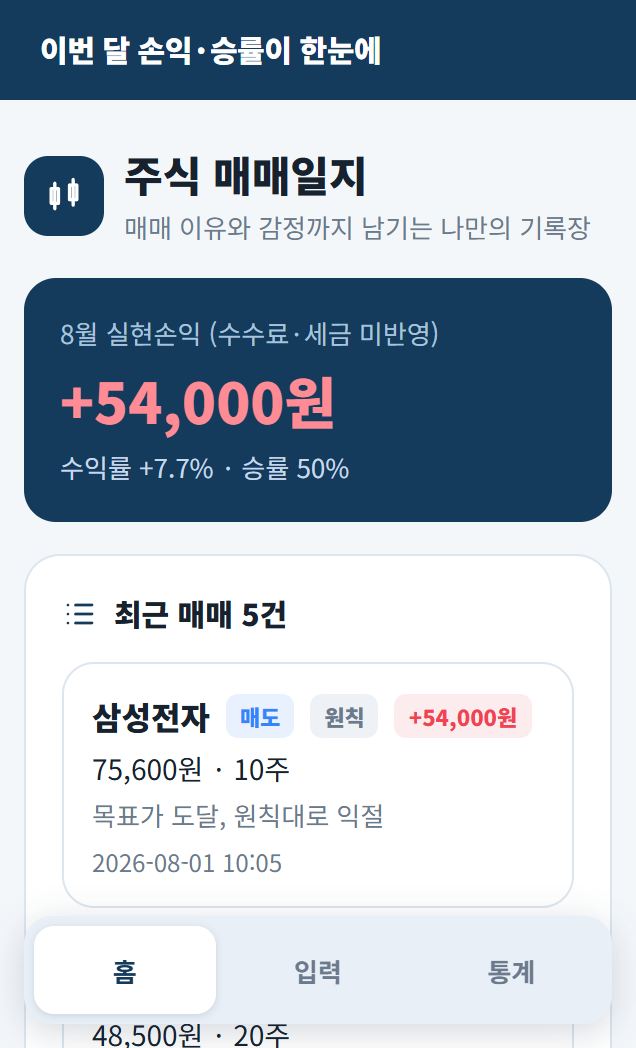
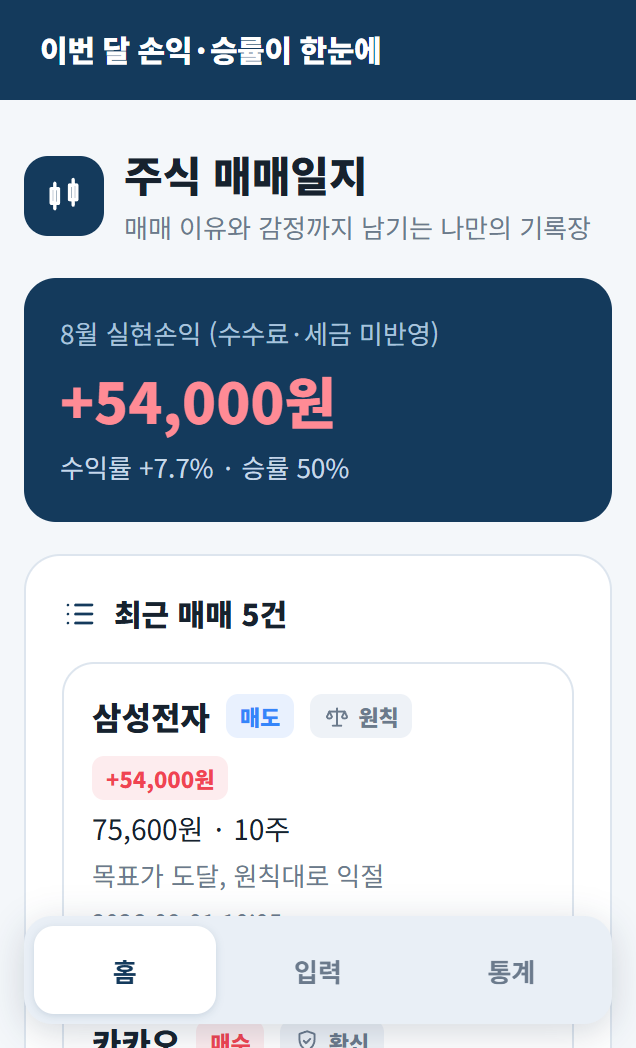
감정 태그 칩에 전용 SVG 라인 아이콘 추가
- 확신=방패체크, 추격=속도선 화살표, 공포=느낌표 삼각형, 원칙=저울, 뇌동=물결
- 칩 선택 시 흰색(currentColor), 홈/목록 감정 배지에도 동일 아이콘 재사용
- 스토어 shot2를 감정 태그 영역으로 갱신

Changed region(s): [[0.1494, 0.7023, 0.5975, 0.8855], [0.1494, 0.9771, 0.5975, 1.0], [0.5079, 0.6718, 0.8066, 0.7023]]

diff --git a/src/components/icons.tsx b/src/components/icons.tsx
@@ -63,6 +63,69 @@ export function IconCamera({ size }: { size?: number }) {
   );
 }
 
+/** 감정 태그: 확신 — 방패 + 체크 */
+export function IconShield({ size }: { size?: number }) {
+  return (
+    <Icon size={size}>
+      <path d="M12 3l7 2.5v5c0 4.6-3 8.4-7 10.5-4-2.1-7-5.9-7-10.5v-5z" />
+      <path d="M9 11.8l2.1 2.2 3.9-4" />
+    </Icon>
+  );
+}
+
+/** 감정 태그: 추격 — 속도선 달린 화살표 */
+export function IconChase({ size }: { size?: number }) {
+  return (
+    <Icon size={size}>
+      <path d="M8 12h12M15 7l5 5-5 5" />
+      <path d="M3 8h4M4 16h4" />
+    </Icon>
+  );
+}
+
+/** 감정 태그: 공포 — 느낌표 삼각형 */
+export function IconFear({ size }: { size?: number }) {
+  return (
+    <Icon size={size}>
+      <path d="M12 4L21 19.5H3z" />
+      <path d="M12 10v4.2M12 17h.01" />
+    </Icon>
+  );
+}
+
+/** 감정 태그: 원칙 — 저울 */
+export function IconScale({ size }: { size?: number }) {
+  return (
+    <Icon size={size}>
+      <path d="M12 4v16M8 20h8" />
+      <path d="M5 7h14" />
+      <path d="M5 7l-2.4 5a2.7 2.7 0 0 0 4.8 0z" />
+      <path d="M19 7l-2.4 5a2.7 2.7 0 0 0 4.8 0z" />
+    </Icon>
+  );
+}
+
+/** 감정 태그: 뇌동 — 회오리 물결 */
+export function IconSwirl({ size }: { size?: number }) {
+  return (
+    <Icon size={size}>
+      <path d="M3 7.5c2.5-2.4 5-2.4 7.5 0s5 2.4 7.5 0" />
+      <path d="M3 12.5c2.5-2.4 5-2.4 7.5 0s5 2.4 7.5 0" />
+      <path d="M6 17.5c2.2-2.1 4.4-2.1 6.6 0s4.4 2.1 6.6 0" />
+    </Icon>
+  );
+}
+
+/** 감정 태그명 → 아이콘 (칩·배지 공용) */
+export function EmotionIcon({ emotion, size = 16 }: { emotion: string; size?: number }) {
+  if (emotion === '확신') return <IconShield size={size} />;
+  if (emotion === '추격') return <IconChase size={size} />;
+  if (emotion === '공포') return <IconFear size={size} />;
+  if (emotion === '원칙') return <IconScale size={size} />;
+  if (emotion === '뇌동') return <IconSwirl size={size} />;
+  return null;
+}
+
 export function IconTrash({ size }: { size?: number }) {
   return (
     <Icon size={size}>

diff --git a/src/App.tsx b/src/App.tsx
@@ -36,7 +36,7 @@ import { makeThumbnail, recognizeImage } from './ocr/ocr';
 import { showRewardedAd } from './ads/rewarded';
 import { BannerAd } from './ads/BannerAd';
 import { AD_GROUP_ID, REWARDED_AD_ID } from './ads/config';
-import { IconCamera, IconChart, IconHome, IconInfo, IconList, IconPen, IconTrash } from './components/icons';
+import { EmotionIcon, IconCamera, IconChart, IconHome, IconInfo, IconList, IconPen, IconTrash } from './components/icons';
 
 type Tab = 'home' | 'write' | 'stats';
 type PickTarget = 'symbol' | 'price' | 'qty';
@@ -252,7 +252,7 @@ export function App() {
           <div className="trade-top">
             <span className="trade-symbol">{t.symbol}</span>
             <span className={`badge ${t.side}`}>{t.side === 'buy' ? '매수' : '매도'}</span>
-            {t.emotion !== '' && <span className="badge emo">{t.emotion}</span>}
+            {t.emotion !== '' && <span className="badge emo"><EmotionIcon emotion={t.emotion} size={13} />{t.emotion}</span>}
             {t.side === 'sell' && pnl !== undefined && (
               <span className={`badge ${pnl > 0 ? 'pnl-up' : pnl < 0 ? 'pnl-down' : 'emo'}`}>{formatSigned(pnl)}</span>
             )}
@@ -398,7 +398,7 @@ export function App() {
                   className={`chip ${emotion === e ? 'on' : ''}`}
                   onClick={() => setEmotion(emotion === e ? '' : e)}
                 >
-                  {e}
+                  <EmotionIcon emotion={e} size={17} />{e}
                 </button>
               ))}
             </div>

diff --git a/src/styles.css b/src/styles.css
@@ -79,7 +79,9 @@ textarea.field-input { resize: vertical; min-height: 64px; }
   min-height: 40px; padding: 8px 14px; border-radius: 20px;
   border: 1.5px solid var(--line); background: #fbfcfe;
   font-size: 14px; font-weight: 600; color: var(--text);
+  display: inline-flex; align-items: center; gap: 6px;
 }
+.chip svg { flex-shrink: 0; }
 .chip.on { background: var(--navy); border-color: var(--navy); color: #fff; }
 .chip.num { border-color: #c9dcf6; background: #f2f7fe; color: #1b5fc2; }
 
@@ -109,7 +111,8 @@ textarea.field-input { resize: vertical; min-height: 64px; }
 .trade-main { flex: 1; min-width: 0; display: flex; flex-direction: column; gap: 4px; }
 .trade-top { display: flex; align-items: center; gap: 8px; flex-wrap: wrap; }
 .trade-symbol { font-size: 16px; font-weight: 800; }
-.badge { font-size: 11px; font-weight: 800; border-radius: 6px; padding: 3px 7px; }
+.badge { font-size: 11px; font-weight: 800; border-radius: 6px; padding: 3px 7px; display: inline-flex; align-items: center; gap: 4px; }
+.badge svg { flex-shrink: 0; }
 .badge.buy { background: #fdecee; color: var(--red); }
 .badge.sell { background: #e9f1fe; color: var(--blue); }
 .badge.emo { background: #eef2f7; color: var(--sub); }
